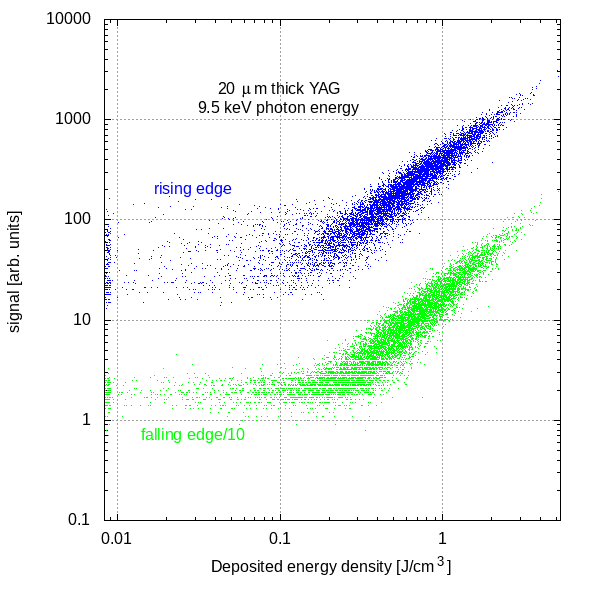
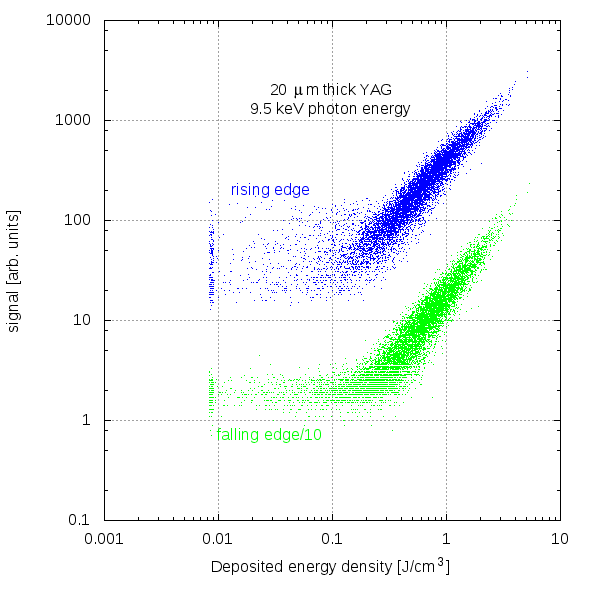
incremental
Getting the simulation of 20 microns YAG to match and then added the goodpct_ip

diff --git a/src/findedges.py b/src/findedges.py
@@ -21,64 +21,93 @@ def weinerfilter(cmat):
     filttile = np.tile(filt,(ntiles,1))
     return cmat*filttile
 
-wclist = subprocess.check_output('wc -l ./data_fs/processed/*r136_refsub*.out', shell=True).decode("utf-8").split('\n')
-I = []
-D = []
-C = []
-G = []
-imax = 0
-dmax = 0
-expname = ''
-runnum = ''
-for line in wclist:
-    m = regexp.search('^\s*(\d+)\s+(.*data_fs/processed/(.+)_(r136_refsub)_ipm(\d+)_del(\d+).out)$',line)
-    if m:
-    	nshots = int(m.group(1))
-    	fullname = m.group(2)
-    	expname = m.group(3)
-    	runnum = m.group(4)
-    	ipmbin = int(m.group(5))
-    	delbin = int(m.group(6))
-    	imax = max(imax,ipmbin)
-    	dmax = max(dmax,delbin)
-    	if nshots>1: # more than 10 spectra in a given delay and ipm 2D-bin
-            I = I + [ipmbin]
-            D = D + [delbin]
-            C = C + [nshots]
-            mat = np.loadtxt(fullname,dtype=float)
-            """
-    	    filename= fullname + '.fftabs'
-    	    np.savetxt(filename,np.abs(matFFT),fmt='%.3f')
-            """
-            matFFT = np.fft.fft(mat,axis=1)
-            matFFT = weinerfilter(matFFT)
-            """
-            filename= fullname + '.filteredabs'
-            np.savetxt(filename,np.abs(matFFT),fmt='%.3f')
-            """
-            matback = np.real(np.fft.ifft(matFFT,axis=1))
-            filename= fullname + '.fftback'
-            np.savetxt(filename,matback,fmt='%.3f')
-            inds = np.argmax(matback,axis=1)
-            vals = np.max(matback,axis=1).astype(int)
-            buff = 100
-            fallinds = np.argmin(matback[:,buff:-buff],axis=1)+buff
-            fallvals = np.min(matback[:,buff:-buff],axis=1).astype(int)
-            #m_matback=sparse.coo_matrix((vals,(np.arange(inds.shape[0]),inds)),shape=matback.shape)
-            filename= fullname + '.indsvals'
-            headerstr = 'maxind\tmax\tminind\tmin'
-            np.savetxt(filename,np.column_stack((inds,vals,fallinds,fallvals)),fmt='%i',header=headerstr)
-            #filename= fullname + '.m_matback'
-            #np.savetxt(filename,m_matback.toarray(),fmt='%i')
-            G = G + [100*len([i for i in inds if (i>300 and i<550)])/len(inds)]
+def convolve(mat,calibmat):
+    #print(calibmat.shape)
+    #print(mat.shape)
+    return np.matmul(calibmat,mat.T).T
 
-CMAT = sparse.coo_matrix((C,(D,I)),shape=(dmax+1,imax+1)).toarray()
-filename='./data_fs/processed/%s_%s_count_mat.hist' % (expname,runnum)
-np.savetxt(filename,CMAT,fmt='%i')
-print(CMAT.T)
-GMAT = sparse.coo_matrix((G,(D,I)),shape=(dmax+1,imax+1)).toarray()
-filename='./data_fs/processed/%s_%s_goodpct_mat.hist' % (expname,runnum)
-np.savetxt(filename,GMAT,fmt='%i')
-print(GMAT.T)
-
-
+def main():
+    calibfilename = '/home/coffee/projects/2dtimetool_simulation_data/extern/ascii_chirp-2000_1650_nfibers61_interference.calibration'
+    noetaloncalibfilename = '/home/coffee/projects/2dtimetool_simulation_data/extern/ascii_chirp-2000_1650_nfibers61_noetalon_interference.calibration'
+    
+    wclist = subprocess.check_output('wc -l ./data_fs/processed/*r136_refsub*.out', shell=True).decode("utf-8").split('\n')
+    I = []
+    D = []
+    C = []
+    G = []
+    ipG = []
+    imax = 0
+    dmax = 0
+    expname = ''
+    runnum = ''
+    for line in wclist:
+        m = regexp.search('^\s*(\d+)\s+(.*data_fs/processed/(.+)_(r136_refsub)_ipm(\d+)_del(\d+).out)$',line)
+        if m:
+    	    nshots = int(m.group(1))
+    	    fullname = m.group(2)
+    	    expname = m.group(3)
+    	    runnum = m.group(4)
+    	    ipmbin = int(m.group(5))
+    	    delbin = int(m.group(6))
+    	    imax = max(imax,ipmbin)
+    	    dmax = max(dmax,delbin)
+    	    if nshots>1: # more than 10 spectra in a given delay and ipm 2D-bin
+                I = I + [ipmbin]
+                D = D + [delbin]
+                C = C + [nshots]
+                mat = np.loadtxt(fullname,dtype=float)
+                """
+                HERE using the matrix multiply rather than the derivative to determine the location and amplitude
+                """
+                calibmat = np.loadtxt(noetaloncalibfilename)
+                result = convolve(mat,calibmat)
+                #print(result.shape)
+                ip_inds = np.argmax(result,axis=1)
+                ip_vals = np.max(result,axis=1).astype(int)
+                #ipG = ipG + [100*len([i for i in ip_inds if (i>60 and i<80)])/len(ip_inds)]
+                ipG = ipG + [100*len([i for i in ip_inds if (i>12 and i<17)])/len(ip_inds)]
+                filename= fullname + '.ip_indsvals_noetalon'
+                headerstr = 'maxind\tmax\t\t-- if the index is between 60 and 80 out of 120 delay bins from calibfile, then its a good shot'
+                headerstr = 'maxind\tmax\t\t-- if the index is between 16 and 19 out of 24 delay bins from calibfile, then its a good shot'
+                np.savetxt(filename,np.column_stack((ip_inds,ip_vals)),fmt='%i',header=headerstr)
+                """
+    	        filename= fullname + '.fftabs'
+    	        np.savetxt(filename,np.abs(matFFT),fmt='%.3f')
+                """
+                matFFT = np.fft.fft(mat,axis=1)
+                matFFT = weinerfilter(matFFT)
+                """
+                filename= fullname + '.filteredabs'
+                np.savetxt(filename,np.abs(matFFT),fmt='%.3f')
+                """
+                matback = np.real(np.fft.ifft(matFFT,axis=1))
+                filename= fullname + '.fftback'
+                np.savetxt(filename,matback,fmt='%.3f')
+                inds = np.argmax(matback,axis=1)
+                vals = np.max(matback,axis=1).astype(int)
+                buff = 100
+                fallinds = np.argmin(matback[:,buff:-buff],axis=1)+buff
+                fallvals = np.min(matback[:,buff:-buff],axis=1).astype(int)
+                #m_matback=sparse.coo_matrix((vals,(np.arange(inds.shape[0]),inds)),shape=matback.shape)
+                filename= fullname + '.indsvals'
+                headerstr = 'maxind\tmax\tminind\tmin'
+                np.savetxt(filename,np.column_stack((inds,vals,fallinds,fallvals)),fmt='%i',header=headerstr)
+                #filename= fullname + '.m_matback'
+                #np.savetxt(filename,m_matback.toarray(),fmt='%i')
+                G = G + [100*len([i for i in inds if (i>300 and i<550)])/len(inds)]
+    
+    CMAT = sparse.coo_matrix((C,(D,I)),shape=(dmax+1,imax+1)).toarray()
+    filename='./data_fs/processed/%s_%s_count_mat.hist' % (expname,runnum)
+    np.savetxt(filename,CMAT,fmt='%i')
+    print(CMAT.T)
+    GMAT = sparse.coo_matrix((G,(D,I)),shape=(dmax+1,imax+1)).toarray()
+    ipGMAT = sparse.coo_matrix((ipG,(D,I)),shape=(dmax+1,imax+1)).toarray()
+    filename='./data_fs/processed/%s_%s_goodpct_mat.hist' % (expname,runnum)
+    np.savetxt(filename,GMAT,fmt='%i')
+    filename='./data_fs/processed/%s_%s_goodpct_mat_ip.hist' % (expname,runnum)
+    np.savetxt(filename,ipGMAT,fmt='%i')
+    print(GMAT.T)
+    return
+    
+if __name__ == '__main__':
+    main() 

diff --git a/notes/xppc0117.md b/notes/xppc0117.md
@@ -1,0 +1,3 @@
+## Calibration  
+2dtimetool_simulation_data/extern/ascii_chirp-2000_2400_nfibers61_interference.calibration
+This is the one to use for now, chirp compares well to run 120
